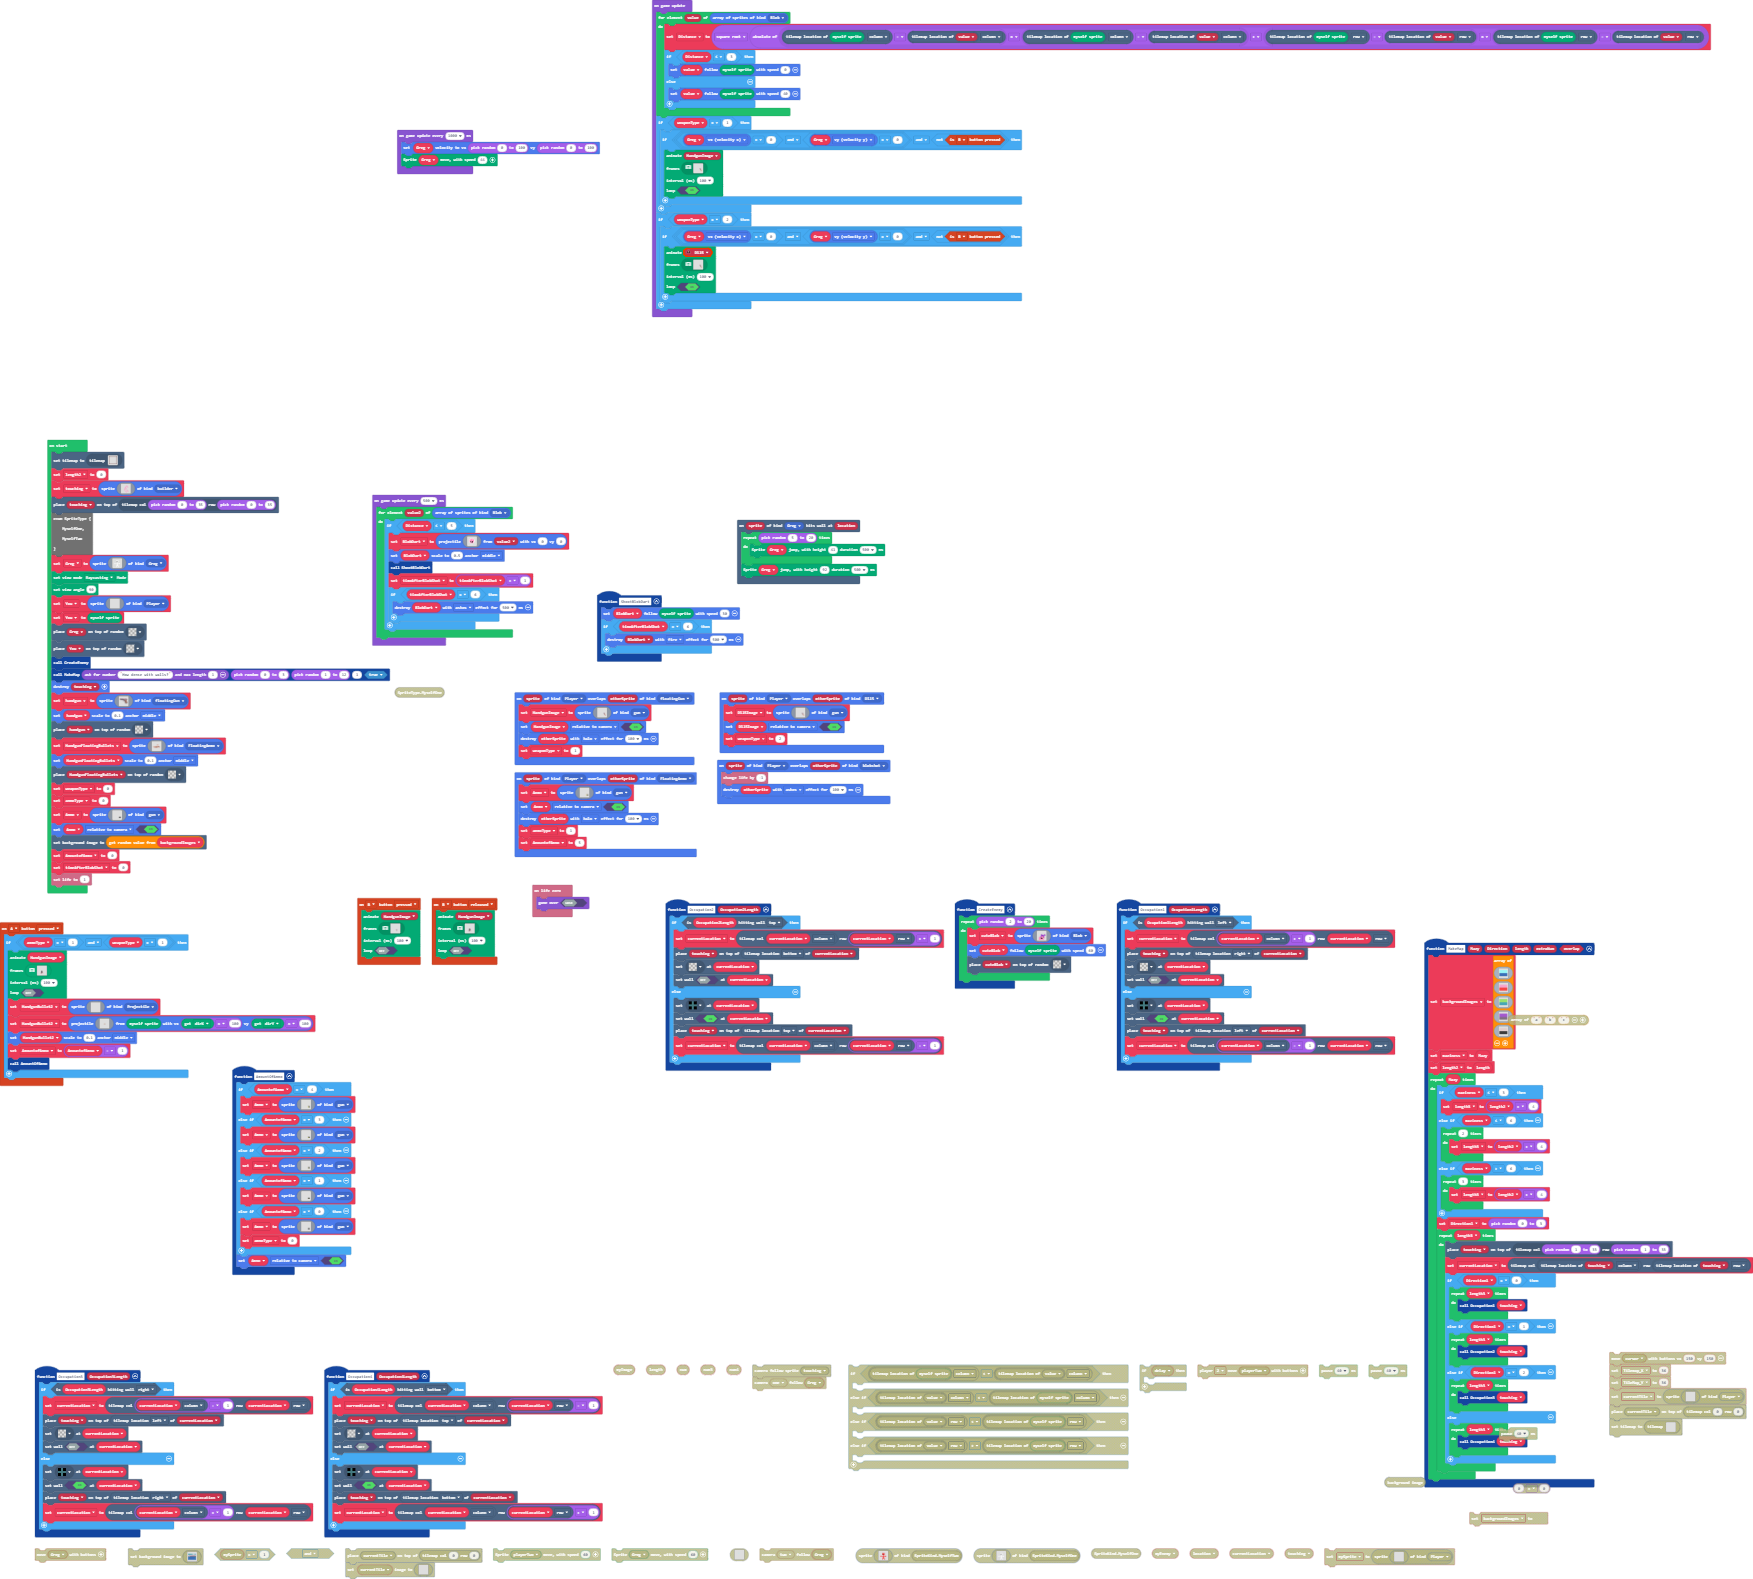
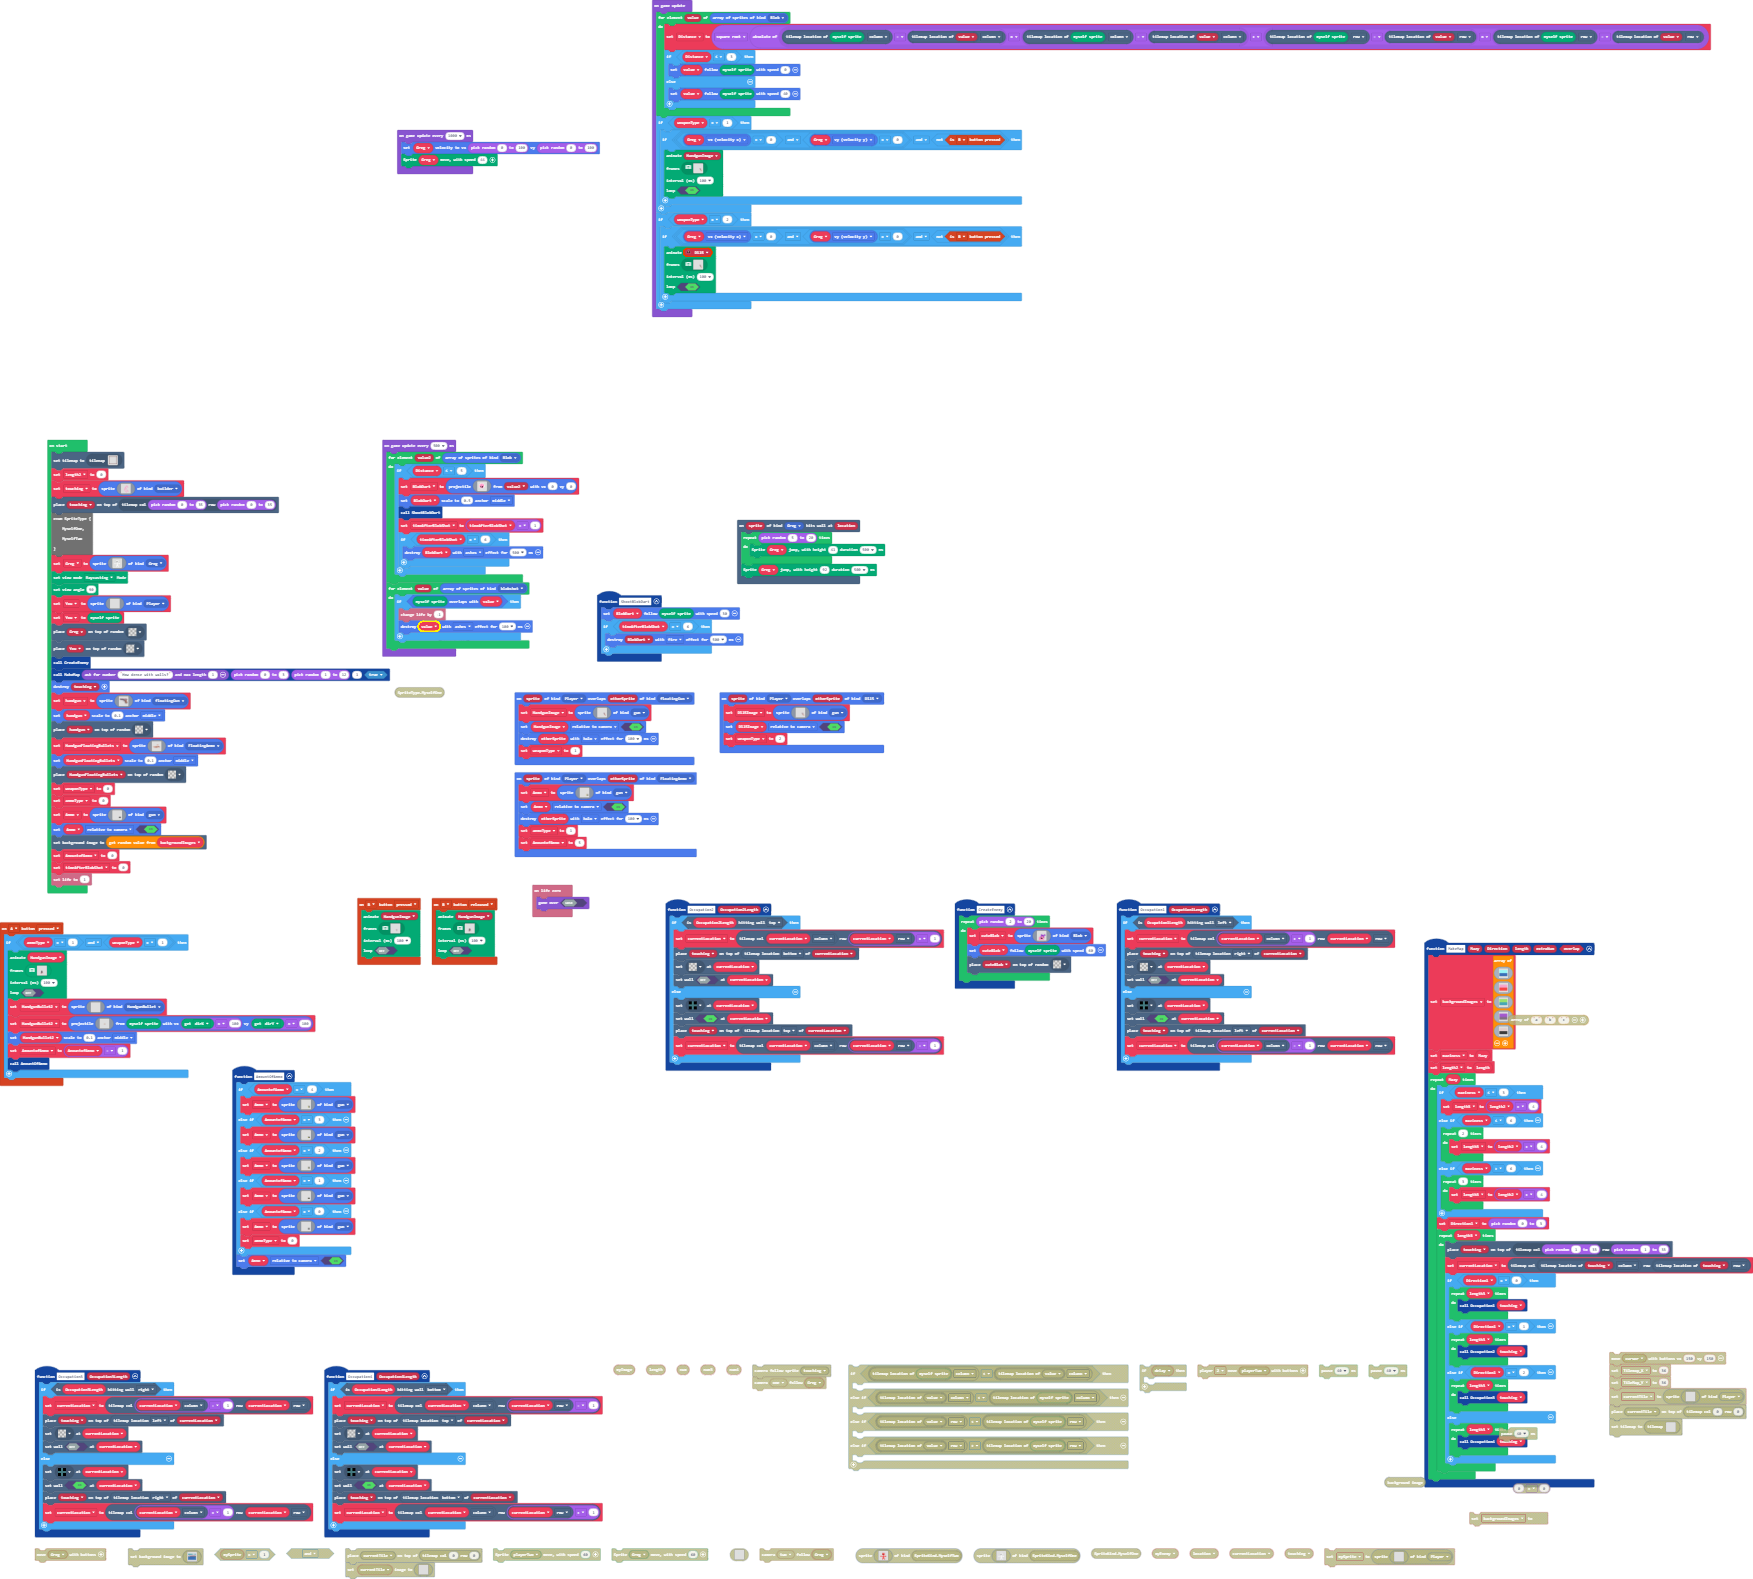
Update main.blocks, main.ts

Changed region(s): [[0.1848, 0.2793, 0.3388, 0.4345], [0.4005, 0.4655, 0.5237, 0.5275]]

diff --git a/main.ts b/main.ts
@@ -915,7 +915,7 @@ controller.A.onEvent(ControllerButtonEvent.Pressed, function () {
             . . . . . . . . . . . . . . . . 
             . . . . . . . . . . . . . . . . 
             . . . . . . . . . . . . . . . . 
-            `, SpriteKind.Projectile)
+            `, SpriteKind.HandgunBullet)
         HandgunBullet2 = sprites.createProjectileFromSprite(img`
             ................................................................................................................................................................
             ................................................................................................................................................................
@@ -2468,10 +2468,6 @@ function Occupation2 (Occupation2Length: Sprite) {
         currentLocation = tiles.getTileLocation(currentLocation.column, currentLocation.row - 1)
     }
 }
-sprites.onOverlap(SpriteKind.Player, SpriteKind.blobshot, function (sprite, otherSprite) {
-    info.changeLifeBy(-1)
-    sprites.destroy(otherSprite, effects.ashes, 100)
-})
 function Occupation4 (Occupation4Length: Sprite) {
     if (Occupation4Length.isHittingTile(CollisionDirection.Bottom)) {
         currentLocation = tiles.getTileLocation(currentLocation.column, currentLocation.row - 1)
@@ -5511,6 +5507,12 @@ game.onUpdateInterval(500, function () {
             if (timeAfterBlobShot == 6) {
                 sprites.destroy(BlobDart, effects.ashes, 500)
             }
+        }
+    }
+    for (let value of sprites.allOfKind(SpriteKind.blobshot)) {
+        if (Render.getRenderSpriteInstance().overlapsWith(value)) {
+            info.changeLifeBy(-1)
+            sprites.destroy(value, effects.ashes, 100)
         }
     }
 })
